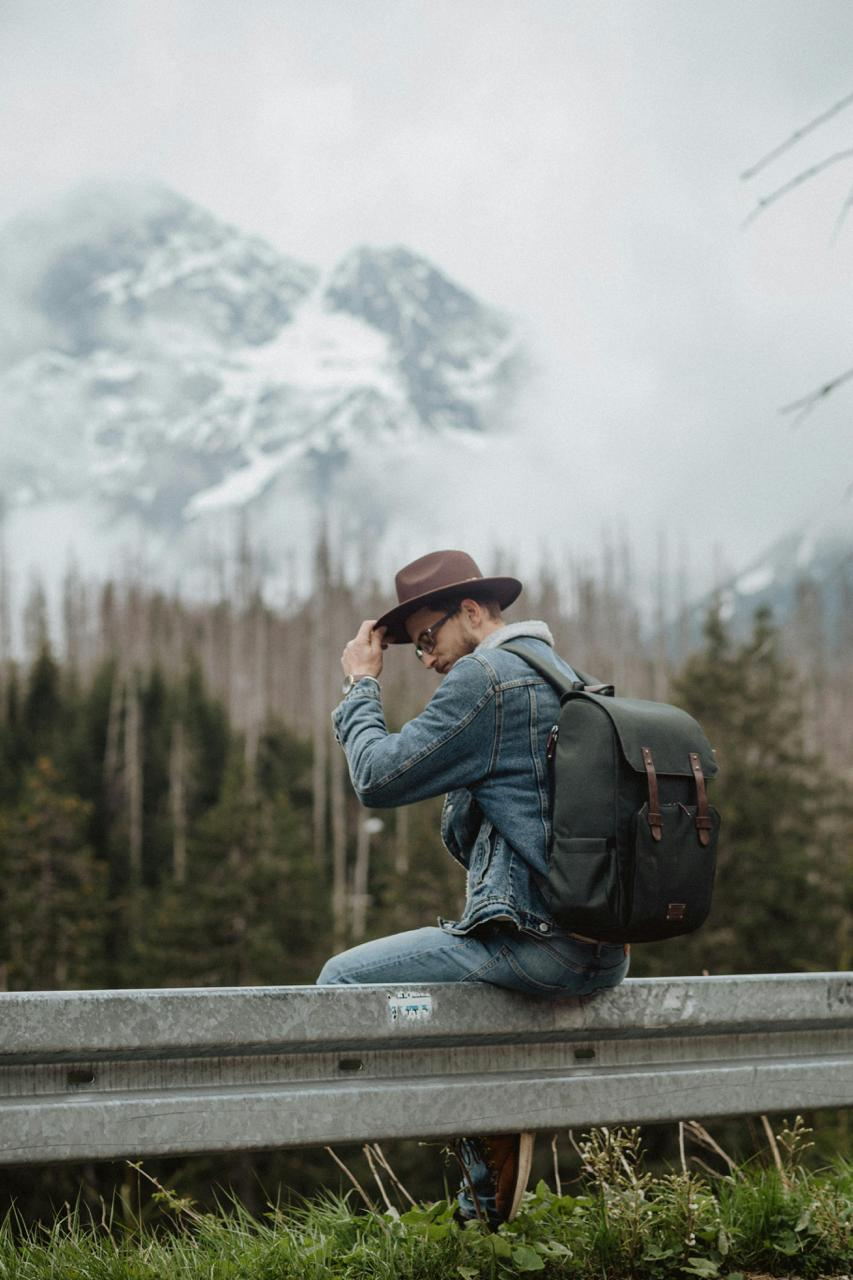
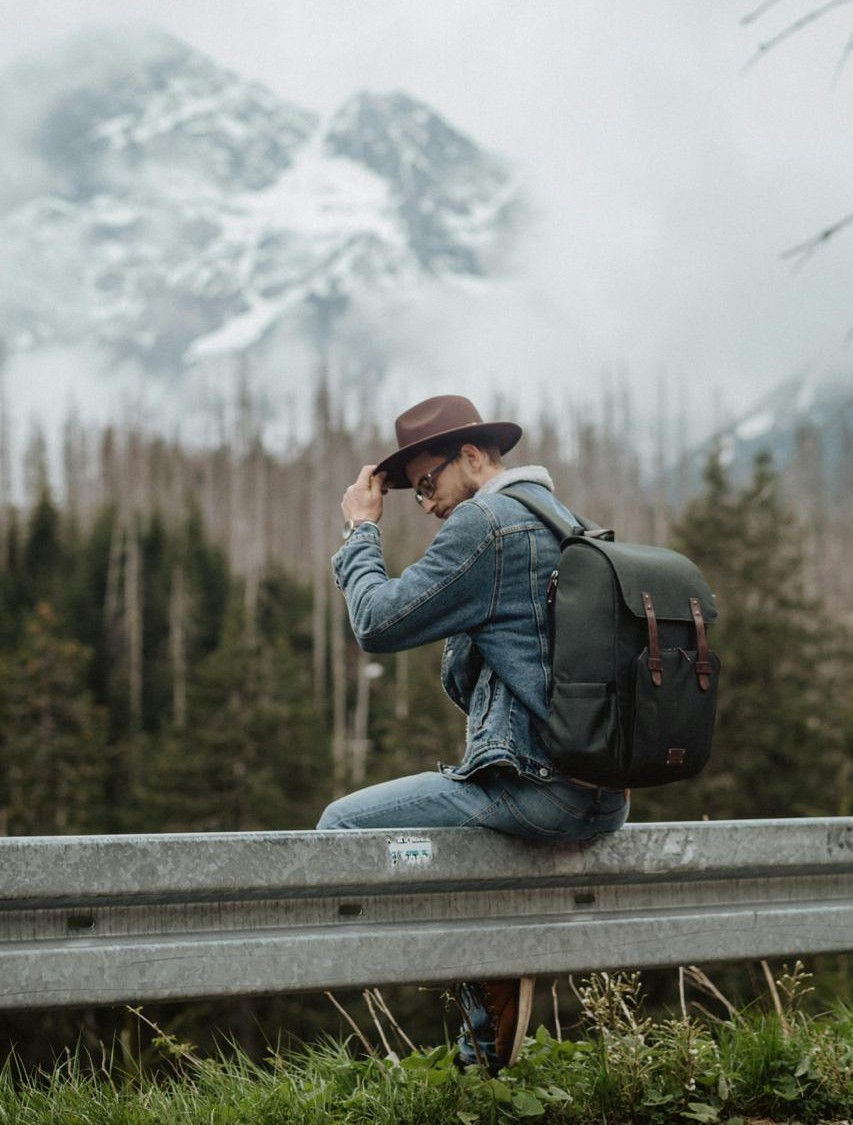
Image size reduced,

diff --git a/src/pages/Investor.tsx b/src/pages/Investor.tsx
@@ -83,7 +83,7 @@ const Investor = () => {
             <img
               src={why}
               alt="Why Choose us"
-              className="lg:absolute -top-52 rounded-2xl lg:h-[84dvh] lg:w-[90%] object-cover"
+              className="lg:absolute -top-52 rounded-2xl lg:h-[80dvh] object-cover"
             />
           </div>
         </div>
